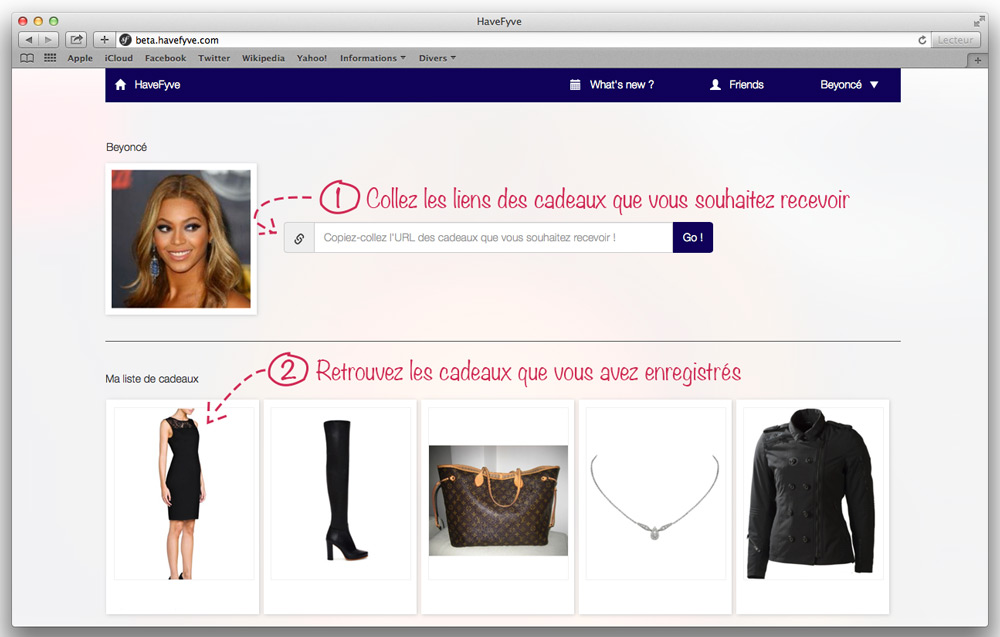
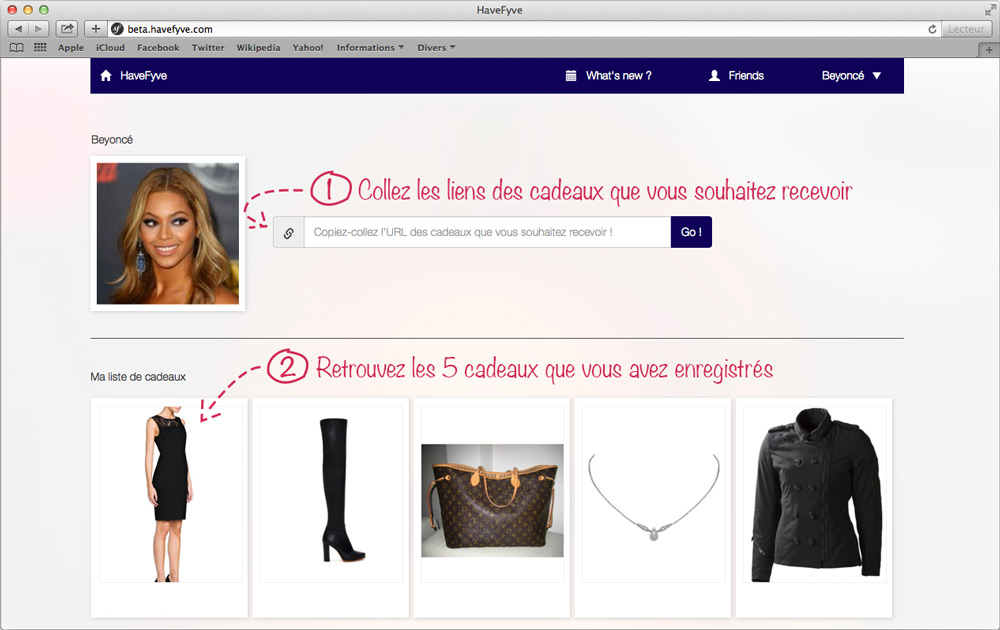
home is now clean

diff --git a/src/newStart/CommonBundle/Resources/public/css/main.css b/src/newStart/CommonBundle/Resources/public/css/main.css
@@ -12,7 +12,7 @@ body:before {
     /* don't forget to use the prefixes you need */
     -webkit-transform: scale(1);
     -webkit-transform-origin: top left;
-    -webkit-filter: blur(30px) opacity(0.25) saturate(2.8);
+    -webkit-filter: blur(7px) opacity(0.25) saturate(2.8);
 
     -moz-transform: scale(2);
     -moz-transform-origin: top left;
@@ -21,7 +21,7 @@ body:before {
 
     transform: scale(1);
     transform-origin: top left;
-    filter: blur(30px) opacity(0.25) saturate(2.8);
+    /*filter: blur(3px) opacity(0.25) saturate(2.8);*/
     color: #fff;    
 }
 #connect, #disconnect, #login {
@@ -413,7 +413,7 @@ h4 {
 }
 
 .carousel-control span {
-    top:250px;
+    top:300px;
 }
 .carousel-indicators li {
     border: 1px solid #0A0A5A;

diff --git a/src/newStart/CommonBundle/Controller/GiftController.php b/src/newStart/CommonBundle/Controller/GiftController.php
@@ -50,15 +50,6 @@ class GiftController extends Controller
             $error = $request->getSession()->get(SecurityContext::AUTHENTICATION_ERROR);
         }
 
-        try {
-            $response = $facebook->api('/me/friends?fields=name,id,email');
-        } catch (\Exception $e) {
-            return new RedirectResponse($this->container->get('router')->generate('fbLogout'));
-        }
-        $fbFriends = $response['data'];
-        $fbFriends = array_slice($fbFriends, 0, 10*5);
-
-
         $products = $this->em->getRepository('newStartCommonBundle:Product')->findBy(array('user' => $user, 'deleted' => false));
         $data = array();
         
@@ -76,12 +67,9 @@ class GiftController extends Controller
 
         return array('gifts'        => $data,
                     'user'          => $user,
-                    'fbFriends'     => $fbFriends,
                     'img_size'      => 75,
                     'displayPopIn'  => $displayPopIn
-
         );
-
     }
 
     /**
